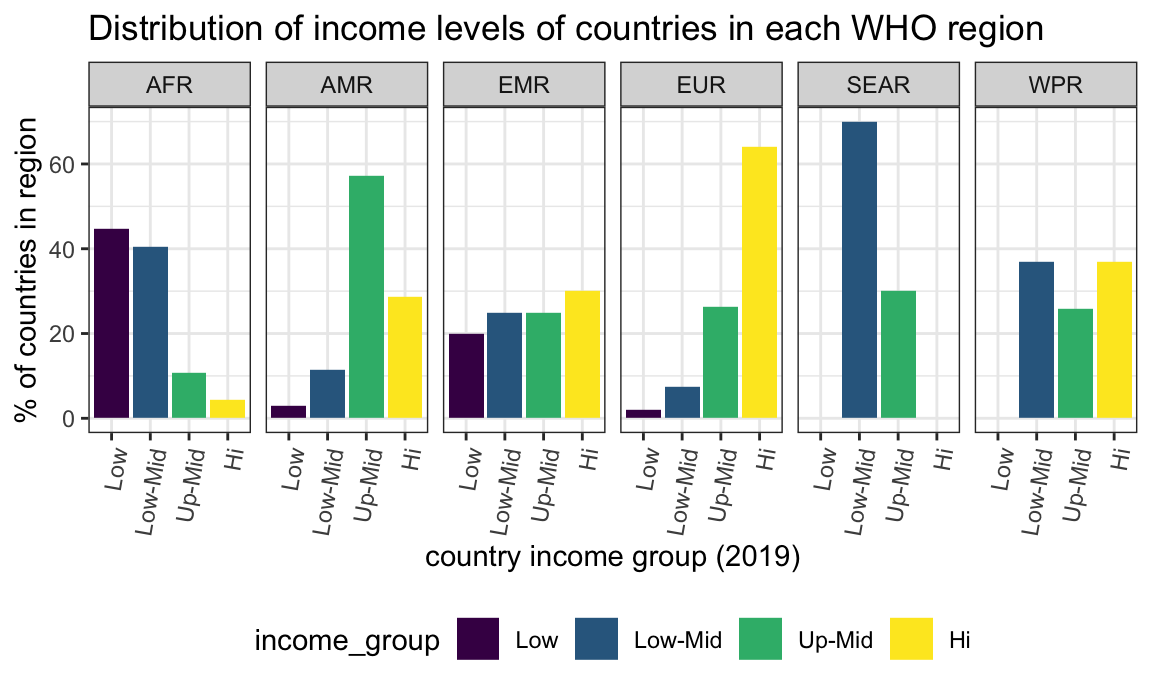
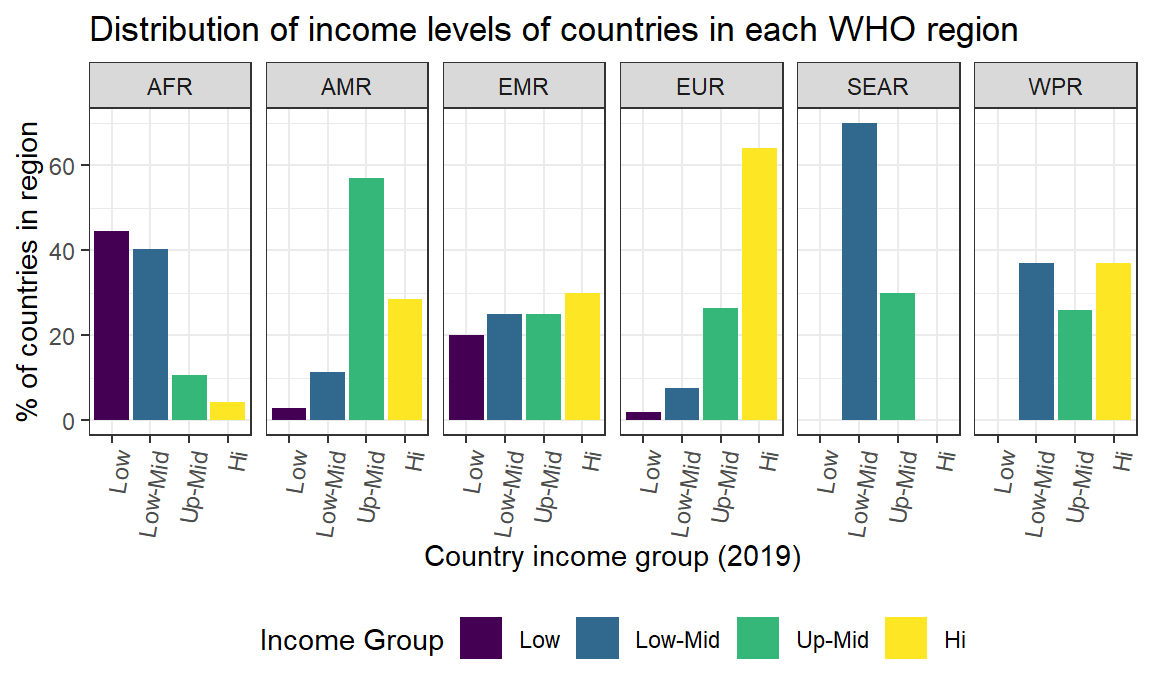
fixing small details on global analysis page

diff --git a/analysis.html b/analysis.html
@@ -13,8 +13,8 @@
 
 <title>Global Analysis</title>
 
-<script src="site_libs/header-attrs-2.11/header-attrs.js"></script>
-<script src="site_libs/jquery-3.6.0/jquery-3.6.0.min.js"></script>
+<script src="site_libs/header-attrs-2.10/header-attrs.js"></script>
+<script src="site_libs/jquery-1.11.3/jquery.min.js"></script>
 <meta name="viewport" content="width=device-width, initial-scale=1" />
 <link href="site_libs/bootstrap-3.3.5/css/simplex.min.css" rel="stylesheet" />
 <script src="site_libs/bootstrap-3.3.5/js/bootstrap.min.js"></script>
@@ -303,31 +303,29 @@ $(document).ready(function () {
 <p>We started our exploratory analysis by defining which income levels, WHO regions, and specific countries to compare and analyze.</p>
 <p>To conduct income-level analysis, we used the income levels which were pre-defined in the GHED: Low, Lower-Middle, Upper-Middle, and High incomes. To conduct WHO region analysis, we utilized the WHO regions designated in the GHED dataset. These regions are: AFR (African Region), AMR (Region of the Americas), EMR (Eastern Mediterranean Region), EUR (European Region), SEAR (South-East Asian Region), and WPR (Western Pacific Region).</p>
 <p>We considered multiple strategies when selecting which countries to compare and analyze. Ultimately, we decided to use the <strong><a href="https://www.un.org/en/development/desa/policy/wesp/wesp_current/2014wesp_country_classification.pdf">UN Country Classification document</a></strong> as a reference source to identify developed and developing countries in order to compare government spending in developed countries with high incomes and government spending in developing countries with low incomes.</p>
-<div id="distribution-of-income-levels-of-countries-in-each-who-region" class="section level3">
-<h3>Distribution of income levels of countries in each WHO region</h3>
 <pre class="r"><code>ghed_df %&gt;%
-  select(country, country_code, region_who, income_group) %&gt;%
+  select(country, country_code, region_who, `Income Group` = income_group) %&gt;%
   distinct() %&gt;%
   mutate(
-    income_group = as.factor(income_group),
-    income_group = factor(income_group, levels = c(&quot;Low&quot;,&quot;Low-Mid&quot;,&quot;Up-Mid&quot;,&quot;Hi&quot;))
+    `Income Group` = as.factor(`Income Group`),
+    `Income Group` = factor(`Income Group`, levels = c(&quot;Low&quot;,&quot;Low-Mid&quot;,&quot;Up-Mid&quot;,&quot;Hi&quot;))
   ) %&gt;%
   group_by(region_who) %&gt;%
   mutate(
     num_countries = n()
   ) %&gt;%
-  group_by(region_who, income_group, num_countries) %&gt;%
+  group_by(region_who, `Income Group`, num_countries) %&gt;%
   summarize(n = n()) %&gt;%
   mutate(
     perc_income_group = 100*(n/num_countries)
   ) %&gt;%
-  ggplot(aes(x = income_group,y = perc_income_group)) +
-  geom_bar(aes(fill = income_group),stat = &quot;identity&quot;) +
+  ggplot(aes(x = `Income Group`,y = perc_income_group)) +
+  geom_bar(aes(fill = `Income Group`),stat = &quot;identity&quot;) +
   facet_grid(~ region_who) +
   theme(axis.text.x = element_text(angle = 80, hjust = 1)) +
   ggtitle(&quot;Distribution of income levels of countries in each WHO region&quot;) +
   ylab(&quot;% of countries in region&quot;) +
-  xlab(&quot;country income group (2019)&quot;)</code></pre>
+  xlab(&quot;Country income group (2019)&quot;)</code></pre>
 <p><img src="analysis_files/figure-html/income_distribution-1.png" width="90%" /></p>
 <p>The bar plots above show the distribution of income levels of countries (categorized in 2019) in each WHO region: AFR, AMR, EMR, EUR, SEAR, and WPR.<br />
 </p>
@@ -337,7 +335,6 @@ Low-Mid income: SEAR<br />
 Up-Mid income: AMR<br />
 Hi income: EUR<br />
 </p>
-</div>
 <div id="income-group-and-total-healthcare-expenditure" class="section level3">
 <h3>Income group and total healthcare expenditure</h3>
 <pre class="r"><code>ghed_df %&gt;%
@@ -389,7 +386,7 @@ Hi income: EUR<br />
 </tr>
 </tbody>
 </table>
-<p>The table above shows that the mean current health expenditure (CHE) per capita in US$ increases going from low income to high income groups. The highest CHE as % of gross domestic product (GDP) belongs to countries in the highest income group at 7.67%; however, we see that this percentage for all income groups ranges from roughly 5-8%, so the amount per capita a country is able to dedicate for health expenditure depends and varies based on country GDP and income level.<br />
+<p>The mean current health expenditure (CHE) per capita in US$ increases going from low income to high income groups. The highest CHE as % of gross domestic product (GDP) belongs to countries in the highest income group at 7.67%; however, we see that this percentage for all income groups ranges from roughly 5-8%, so the amount per capita a country is able to dedicate for health expenditure depends and varies based on country GDP and income level.<br />
 </p>
 </div>
 <div id="who-region-and-total-healthcare-expenditure" class="section level3">
@@ -450,7 +447,7 @@ Hi income: EUR<br />
 </tr>
 </tbody>
 </table>
-<p>As shown by the table above, the AFR region has the lowest mean CHE per capita (US$) while the EUR region has the highest. While the expenditure as % of GDP ranges from 4-8%, we note that the EUR region has countries that, on average, spend the highest percentage of their GDP on health at 7.6%. So even though the EUR region has the highest proportion of high income countries, these countries still dedicate the highest proportion of their GDP to healthcare, followed by the WPR and AMR regions.</p>
+<p>The AFR region has the lowest mean CHE per capita (US$) while the EUR region has the highest. While the expenditure as % of GDP ranges from 4-8%, we note that the EUR region has countries that, on average, spend the highest percentage of their GDP on health at 7.6%. So even though the EUR region has the highest proportion of high income countries, these countries still dedicate the highest proportion of their GDP to healthcare, followed by the WPR and AMR regions.</p>
 </div>
 <div id="developed-countries-and-their-spending-over-time" class="section level3">
 <h3>Developed countries and their spending over time</h3>
@@ -473,7 +470,8 @@ Hi income: EUR<br />
   geom_line(show.legend = FALSE) +
   geom_point(show.legend = FALSE) +
   ggtitle(&quot;Total spending over time in developed countries (per capita)&quot;) +
-  ylab(&quot;Total Health Expenditure (US$)&quot;) +
+  xlab(&quot;Year&quot;) +
+  ylab(&quot;Total health expenditure (US$)&quot;) +
   scale_colour_viridis_d()</code></pre>
 <pre class="r"><code>govt_spending_developed_plot = 
   ghed_df %&gt;%
@@ -493,13 +491,14 @@ Hi income: EUR<br />
   geom_line() +
   geom_point() +
   ggtitle(&quot;Government spending over time in developed countries (per capita)&quot;) +
-  ylab(&quot;Government Health Expenditure (US$)&quot;) +
+  xlab(&quot;Year&quot;) +
+  ylab(&quot;Government health expenditure (US$)&quot;) +
   scale_colour_viridis_d()</code></pre>
 <pre class="r"><code>total_spending_developed_plot </code></pre>
 <p><img src="analysis_files/figure-html/total%20and%20govt%20spending%20developed%20countries-1.png" width="90%" /></p>
 <pre class="r"><code>govt_spending_developed_plot</code></pre>
 <p><img src="analysis_files/figure-html/total%20and%20govt%20spending%20developed%20countries-2.png" width="90%" /></p>
-<p>As we can see from the above line plots, the United States has the highest total and government spending per capita over time and grows at a steeper rate year over year than the other countries. All countries have higher health expenditure in 2019 compared to 2000. It’s interesting to note that Japan had a spike in government health expenditure around 2011 and 2012, exceeding the US - upon looking into this, we note that the deadly earthquake and tsunami that hit Japan in 2011 coincides with this increase. With thousands dead and injured and many resources scarce, the government stepped in to provide relief to its citizens and help with recovery and health concerns after the natural disaster struck.<br />
+<p>The United States has the highest total and government spending per capita over time and grows at a steeper rate year over year than the other countries. All countries have higher health expenditure in 2019 compared to 2000. It’s interesting to note that Japan had a spike in government health expenditure around 2011 and 2012, exceeding the US - upon looking into this, we note that the deadly earthquake and tsunami that hit Japan in 2011 coincides with this increase. With thousands dead and injured and many resources scarce, the government stepped in to provide relief to its citizens and help with recovery and health concerns after the natural disaster struck.<br />
 </p>
 <p>Note that total spending per capita ranges from $1500 to $11000 and government spending per capita ranges from $1000 to $5500.<br />
 </p>
@@ -527,7 +526,8 @@ Hi income: EUR<br />
   geom_line(show.legend = FALSE) +
   geom_point(show.legend = FALSE) +
   ggtitle(&quot;Total spending over time in developing countries (per capita)&quot;) +
-  ylab(&quot;Total Health Expenditure (US$)&quot;) +
+  xlab(&quot;Year&quot;) +
+  ylab(&quot;Total health expenditure (US$)&quot;) +
   scale_colour_viridis_d()</code></pre>
 <pre class="r"><code>govt_spending_developing_plot = 
   ghed_df %&gt;%
@@ -549,13 +549,14 @@ Hi income: EUR<br />
   geom_line() +
   geom_point() +
   ggtitle(&quot;Government spending over time in developing countries (per capita)&quot;) +
-  ylab(&quot;Government Health Expenditure (US$)&quot;) +
+  xlab(&quot;Year&quot;) +
+  ylab(&quot;Government health expenditure (US$)&quot;) +
   scale_colour_viridis_d()</code></pre>
 <pre class="r"><code>total_spending_developing_plot</code></pre>
 <p><img src="analysis_files/figure-html/unnamed-chunk-1-1.png" width="90%" /></p>
 <pre class="r"><code>govt_spending_developing_plot</code></pre>
 <p><img src="analysis_files/figure-html/unnamed-chunk-1-2.png" width="90%" /></p>
-<p>As we can see from the above line plots, among these developing economies, Argentina has the highest total and government spending per capita over time and grows at a steeper rate year over year. According to an <strong><a href="https://solidfoundations.economist.com/reports/Amgen_Argentina_English_Final.pdf">Economist article</a></strong>, Argentina’s government has been devoting more resources to healthcare over the years to address healthcare inequalities. Some of the African countries, such as Senegal, South Africa, and Uganda, don’t seem to have increased health spending much, if at all, over the last two decades.<br />
+<p>Among these developing economies, Argentina has the highest total and government spending per capita over time and grows at a steeper rate year over year. According to an <strong><a href="https://solidfoundations.economist.com/reports/Amgen_Argentina_English_Final.pdf">Economist article</a></strong>, Argentina’s government has been devoting more resources to healthcare over the years to address healthcare inequalities. Some of the African countries, such as Senegal, South Africa, and Uganda, don’t seem to have increased health spending much, if at all, over the last two decades.<br />
 </p>
 <p>Note that total spending per capita ranges from close to $0 to $1500 and government spending per capita ranges from close to $0 to $1000. Both these ranges are much less than that of the G-7 developed economies mentioned above: total spending per capita from $1500 to $11000 and government spending per capita from $1000 to $5500.<br />
 </p>
@@ -609,10 +610,9 @@ combined_constant = income_constant + region_constant
 
 combined_constant + 
   plot_annotation(
-    title = &quot;Primary health care spending in million constant USD$&quot;
+    title = &quot;Primary health care spending in million constant US$&quot;
   )</code></pre>
 <p><img src="analysis_files/figure-html/combined_phc_constant-1.png" width="90%" /></p>
-<p>The bar plots above show the average primary health care (PHC) spending in million current US$ in 2019 across income levels and WHO regions.</p>
 <p>High income countries spent the most on average on PHC, while low income countries spent the least. The European region spent the most on average on PHC, while the South-East Asian region spent the least on average on PHC.</p>
 <pre class="r"><code>PHC_df =
   ghed_df %&gt;% 
@@ -659,10 +659,9 @@ combined_gdp = income_gdp + region_gdp
 
 combined_gdp + 
   plot_annotation(
-    title = &quot;Primary health care spending per capita GDP&quot; 
+    title = &quot;Primary health care spending as % of GDP&quot; 
   )</code></pre>
 <p><img src="analysis_files/figure-html/combined_phc_gdp-1.png" width="90%" /></p>
-<p>The bar plots above show the average primary health care (PHC) spending as a percent of GDP in 2019 across income levels and WHO regions.</p>
 <p>Low income countries spent the most on average on PHC as a proportion of GDP, while up-mid income countries spent the least. It is interesting that low income countries actually spent more as compared to high income countries. The European region spent the most on average on PHC as a proportion of GDP, while the Western Pacific region spent the least.</p>
 <pre class="r"><code>PHC_df = 
   ghed_df %&gt;% 
@@ -709,10 +708,9 @@ combined_che = income_che + region_che
 
 combined_che + 
   plot_annotation(
-    title = &quot;Primary health care spending per capita current health expenditure&quot;
+    title = &quot;Primary health care spending as % of current health expenditure&quot;
   )</code></pre>
 <p><img src="analysis_files/figure-html/combined_phc_che-1.png" width="90%" /></p>
-<p>The bar plots above show the average primary health care (PHC) spending as a percent of current health expenditure in 2019 for income levels and WHO regions.</p>
 <p>Low income countries spent the most on average on PHC as a proportion of current health expenditure, while upper-middle income countries spent the least. Low income countries actually spent significantly more in comparison to high income countries. Interestingly, African region countries spent the most on average on PHC as a proportion of current health expenditure, while Region of the Americas and Western Pacific region spent the least.</p>
 <p>We continued our analysis by comparing average preventative spending and curative spending.</p>
 <pre class="r"><code>cp_df =
@@ -773,10 +771,9 @@ combined_cp &lt;- income_cp + group_cp
 
 combined_cp + 
   plot_annotation(
-    title = &quot;Preventive vs. curative spending in million constant USD&quot;
+    title = &quot;Preventive vs. curative spending in million constant US$&quot;
   )</code></pre>
 <p><img src="analysis_files/figure-html/unnamed-chunk-2-1.png" width="90%" /></p>
-<p>The bar plots above show the average preventive vs. curative spending in million current US$ in 2019 for income levels and WHO regions.</p>
 <p>Across all income levels and WHO regions, countries on average spent much more on curative care than on preventative care. This reflects that global health care practices seem to prioritize curative care, and focus less on preventative care for patients. On average, high income countries spent the most on both curative and preventative care, while low income countries spent the least. The region of the Americas spent the most on both curative and preventative care, while the African region spent the least.</p>
 <pre class="r"><code>cp_df_gdp = 
   ghed_df %&gt;% 
@@ -836,10 +833,9 @@ combined_cp_gdp &lt;- income_cp_gdp + group_cp_gdp
 
 combined_cp_gdp + 
   plot_annotation(
-    title = &quot;Preventive vs. curative spending per capita GDP&quot;
+    title = &quot;Preventive vs. curative spending as % of GDP&quot;
   )</code></pre>
 <p><img src="analysis_files/figure-html/unnamed-chunk-3-1.png" width="90%" /></p>
-<p>The bar plots above show the average preventive vs. curative spending as a percent of GDP in 2019 for income levels and WHO regions.</p>
 <p>On average, countries across all income groups and WHO regions spent much more on curative care than on preventative care as a percent of GDP. High income countries spent the most on average on curative care. However, low income countries actually spent the most on preventative care as a percent of GDP. The region of the Americas spent the most on average on curative care. It is interesting that the African region actually spent the most on preventative care as a percent of GDP.</p>
 <p>The plots below show the average show the average preventive vs. curative spending as a percent of current health expenditure in 2019 for income levels and WHO regions.</p>
 <pre class="r"><code>cp_df_che = 
@@ -900,10 +896,9 @@ combined_cp_che &lt;- income_cp_che + group_cp_che
 
 combined_cp_che + 
   plot_annotation(
-    title = &quot;Preventive vs. curative spending per capita current health expenditure&quot;
+    title = &quot;Preventive vs. curative spending as % of current health expenditure&quot;
   )</code></pre>
 <p><img src="analysis_files/figure-html/unnamed-chunk-4-1.png" width="90%" /></p>
-<p>The bar plots above show the average preventive vs. curative spending as a percent of current health expenditure in 2019 for income levels and WHO regions.</p>
 <p>On average, countries in all income levels and WHO regions spent significantly more on curative care than preventative care as a percent of current health expenditure. Upper-middle income countries actually spent the most on curative care, while low income countries spent the least. High income and lower-middle income countries spent relatively similar amounts on curative care as a percent of current health expenditure. Again, low income countries spent the most on average on preventative care as a percent of current health expenditure. The Western Pacific region actually spent the most on curative care, while the European region only spent the second highest on curative care. The African region spent the least on curative care, though countries in this region actually spent the most on average on preventative care as a percent of current health expenditure.</p>
 <br>
 <center>
